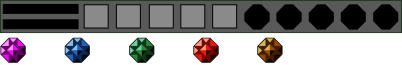
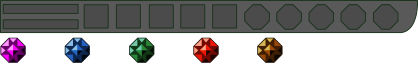
ui changes

diff --git a/src/config/World.js b/src/config/World.js
@@ -54,8 +54,8 @@ export const WORLD = {
                 action: (arkona) => arkona.showOverlay("sign", "Eldun")
             }
         ],
-        monsters: [
-            { monster: MONSTERS.wolf, pos: [ [152, 1031] ] }
+        generators: [
+            { x: 152, y: 1031, z: 0, type: MONSTERS.wolf, count: 3 }
         ]
     },
     "2,11": {
@@ -133,8 +133,8 @@ export const WORLD = {
                 action: (arkona) => arkona.showOverlay("raighd")
             }
         ],
-        monsters: [
-            { monster: MONSTERS.wolf, pos: [ [375, 1048] ] }
+        generators: [
+            { x: 375, y: 1048, z: 0, type: MONSTERS.wolf, count: 3 }
         ]
     },
     "2,12": {
@@ -166,33 +166,39 @@ export const WORLD = {
         vehicles: [
             { name: "ship", x: 139, y: 892, dir: "se" }
         ],
-        monsters: [
-            { monster: MONSTERS.wolf, pos: [ [169, 942], [164, 907] ] }
+        generators: [
+            { x: 169, y: 942, z: 0, type: MONSTERS.wolf, count: 3 },
+            { x: 164, y: 907, z: 0, type: MONSTERS.wolf, count: 3 }
         ]
     },
     "2,9": {
-        monsters: [
-            { monster: MONSTERS.wolf, pos: [ [237, 906], [244,942] ] }
+        generators: [
+            { x: 237, y: 906, z: 0, type: MONSTERS.wolf, count: 3 },
+            { x: 244, y: 942, z: 0, type: MONSTERS.wolf, count: 3 }
         ]
-    },    
+    },
     "3,9": {
-        monsters: [
-            { monster: MONSTERS.wolf, pos: [ [314,921], [348,924] ] }
+        generators: [
+            { x: 314, y: 921, z: 0, type: MONSTERS.wolf, count: 3 },
+            { x: 348, y: 924, z: 0, type: MONSTERS.wolf, count: 3 }
         ]
-    },    
+    },
     "3,11": {
-        monsters: [
-            { monster: MONSTERS.wolf, pos: [ [330,1069], [364,1110] ] }
+        generators: [
+            { x: 330, y: 1069, z: 0, type: MONSTERS.wolf, count: 3 },
+            { x: 364, y: 1110, z: 0, type: MONSTERS.wolf, count: 3 }
         ]
-    },    
+    },
     "1,12": {
         generators: [
             { x: 153, y: 1205, z: 0, type: MONSTERS.wolf, count: 2 }
-        ],
+        ]
     },
     "1,11": {
         generators: [
-            { x: 180, y: 1096, z: 0, type: MONSTERS.wolf, count: 1 }
+            { x: 180, y: 1096, z: 0, type: MONSTERS.wolf, count: 1 },
+            { x: 155, y: 1090, z: 0, type: MONSTERS.wolf, count: 3 },
+            { x: 177, y: 1094, z: 0, type: MONSTERS.wolf, count: 3 }
         ],
         actions: [
             {
@@ -201,9 +207,6 @@ export const WORLD = {
                 allow: (arkona) => true,
                 action: (arkona) => arkona.showOverlay("sign", "Median")
             }
-       ],
-       monsters: [
-            { monster: MONSTERS.wolf, pos: [ [155, 1090], [177, 1094] ] }
         ]
     },
     "0,12": {

diff --git a/src/ui/Device.js b/src/ui/Device.js
@@ -1,4 +1,4 @@
-//import * as Config from "../config/Config"
+import * as Config from "../config/Config"
 //import Phaser from "phaser"
 
 const WIDTH = 74
@@ -26,11 +26,21 @@ export default class {
 		this.greenGem = this.arkona.game.add.image(309, 6, "device", "gem-green")
 		this.redGem = this.arkona.game.add.image(341, 6, "device", "gem-red")
 		this.yellowGem = this.arkona.game.add.image(373, 6, "device", "gem-yellow")
-	}
+
+        this.level = this.arkona.game.add.text(86, 3, "", {
+            font: "bold 18px " + Config.FONT_FAMILY,
+            fill: "#fc0",
+            boundsAlignH: "center",
+            boundsAlignV: "center",
+            wordWrap: false
+        })
+        this.level.setShadow(1, 1, "rgba(0,0,0,1)", 2)
+    }
 
 	update() {
 		this.health.scale.x = this.arkona.player.alive.getHealth()
 		this.power.scale.x = this.arkona.player.alive.getWeaponCooldown()
+        this.level.setText("" + this.arkona.player.alive.level)
 	}
 
 

diff --git a/src/states/Splash.js b/src/states/Splash.js
@@ -49,11 +49,11 @@ export default class extends Phaser.State {
             frames: [
                 {
                     filename: "device",
-                    frame: { x: 0, y: 0, w: 405, h: 32 },
+                    frame: { x: 0, y: 0, w: 418, h: 34 },
                     rotated: false,
                     trimmed: true,
-                    sourceSize: { w: 405, h: 32 },
-                    spriteSourceSize: {x: 0, y: 0, w: 405, h: 32 }
+                    sourceSize: { w: 418, h: 34 },
+                    spriteSourceSize: {x: 0, y: 0, w: 418, h: 34 }
                 },
                 {
                     filename: "gem-purple",
